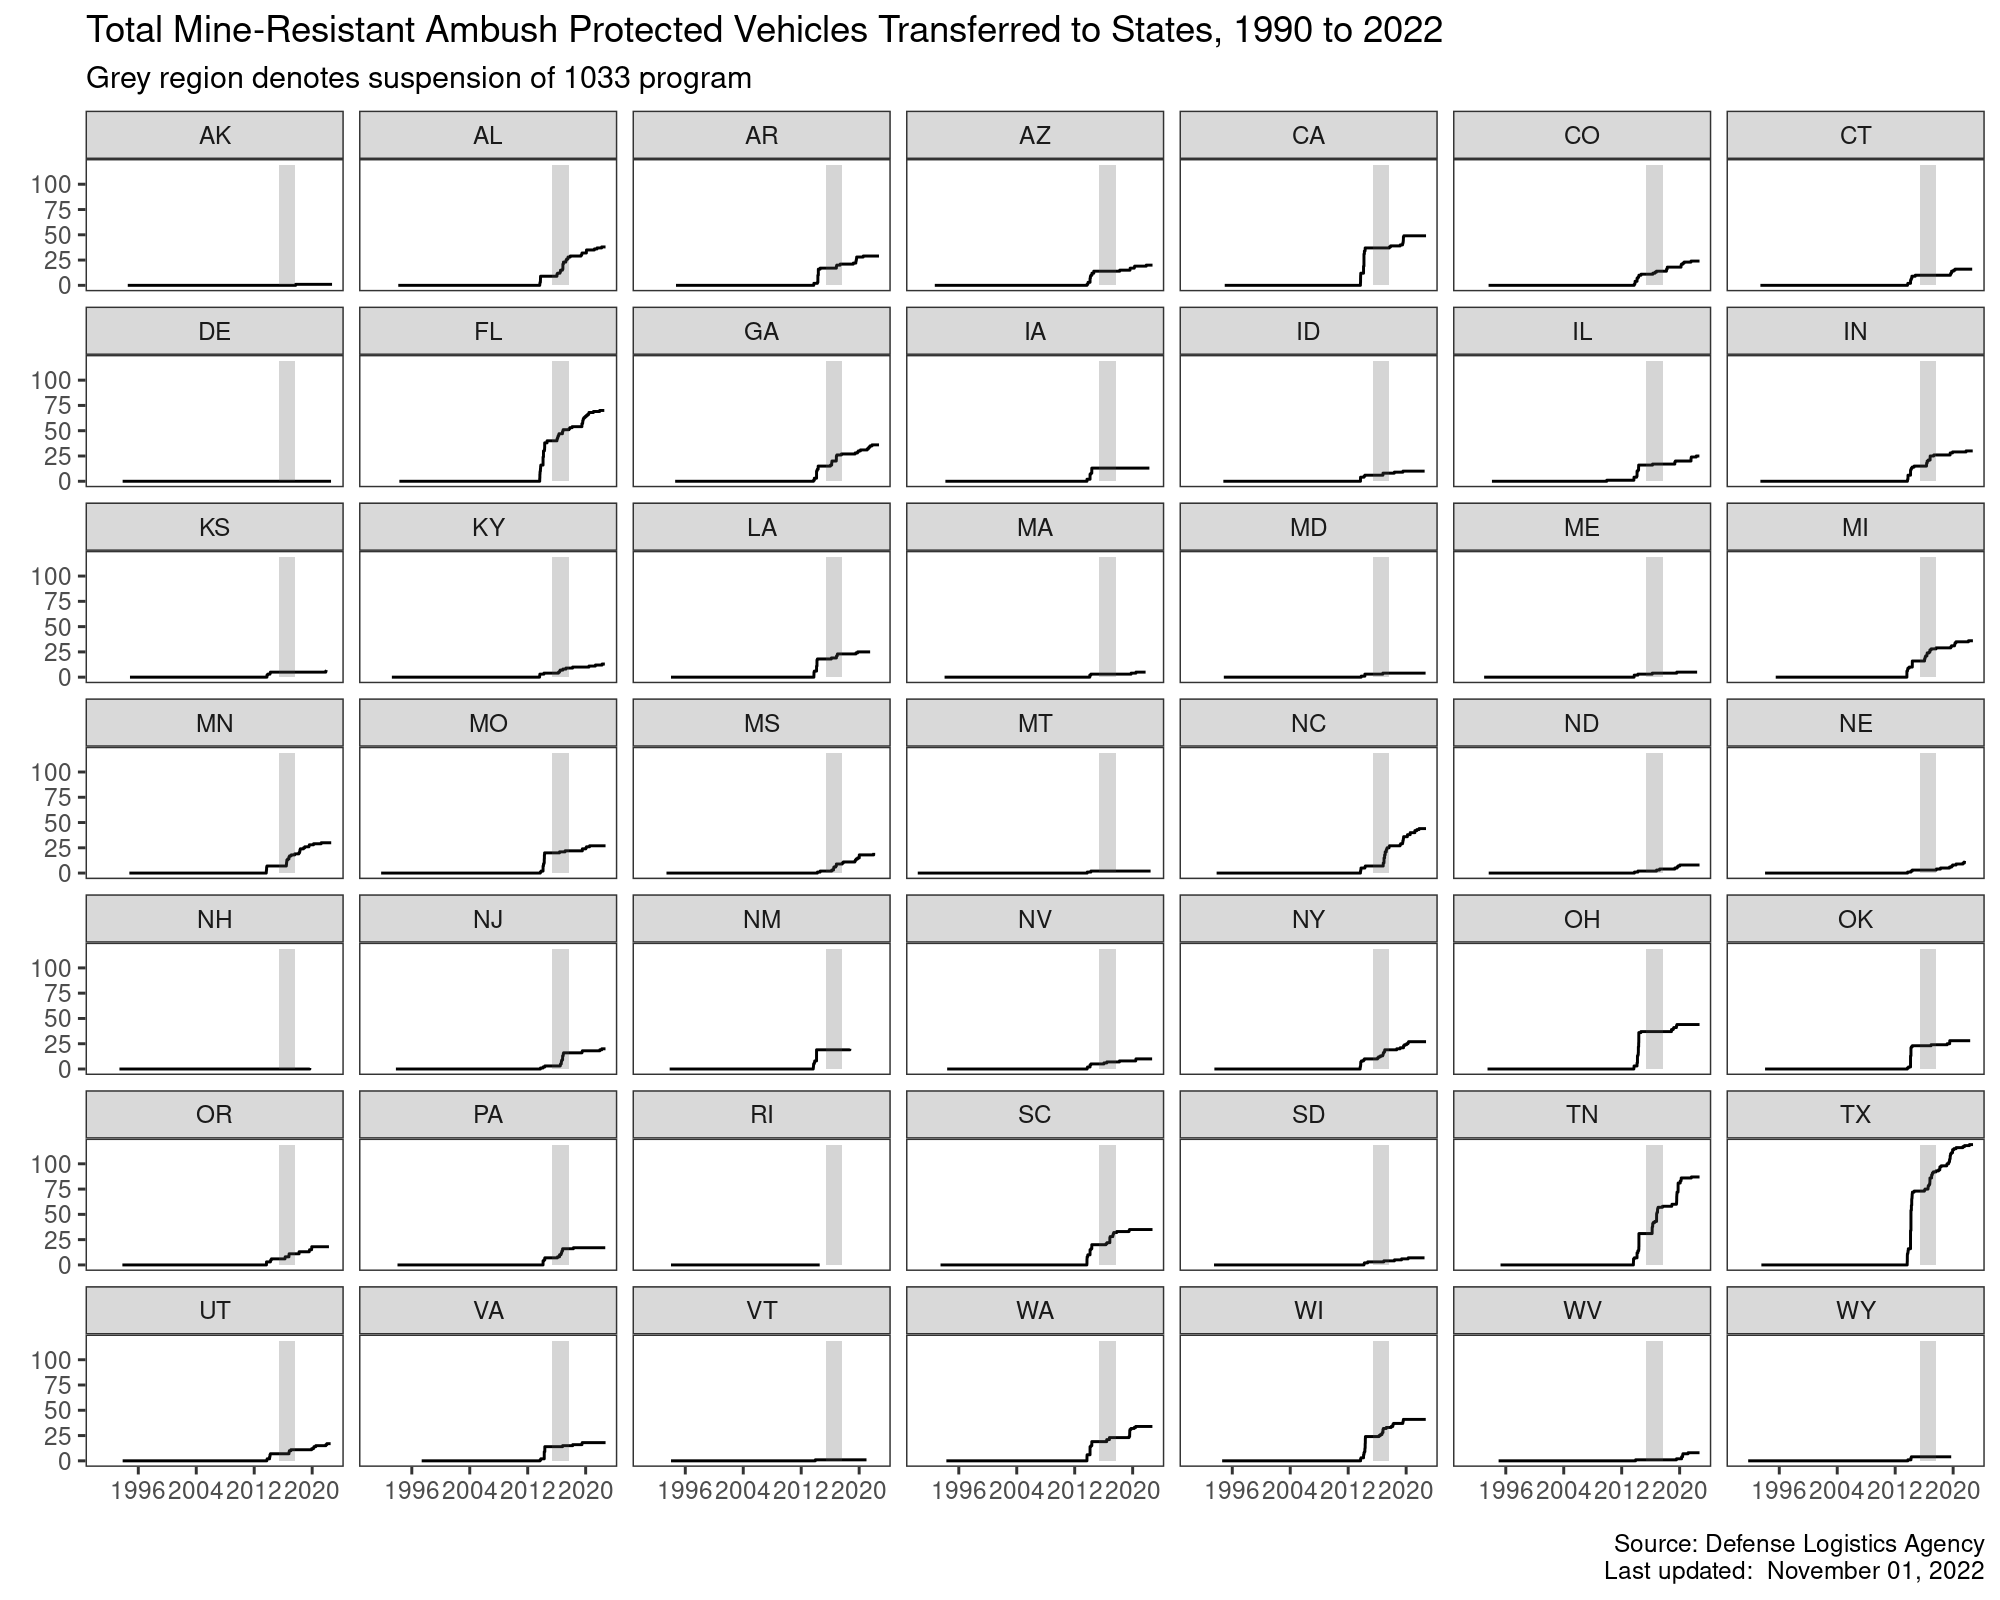
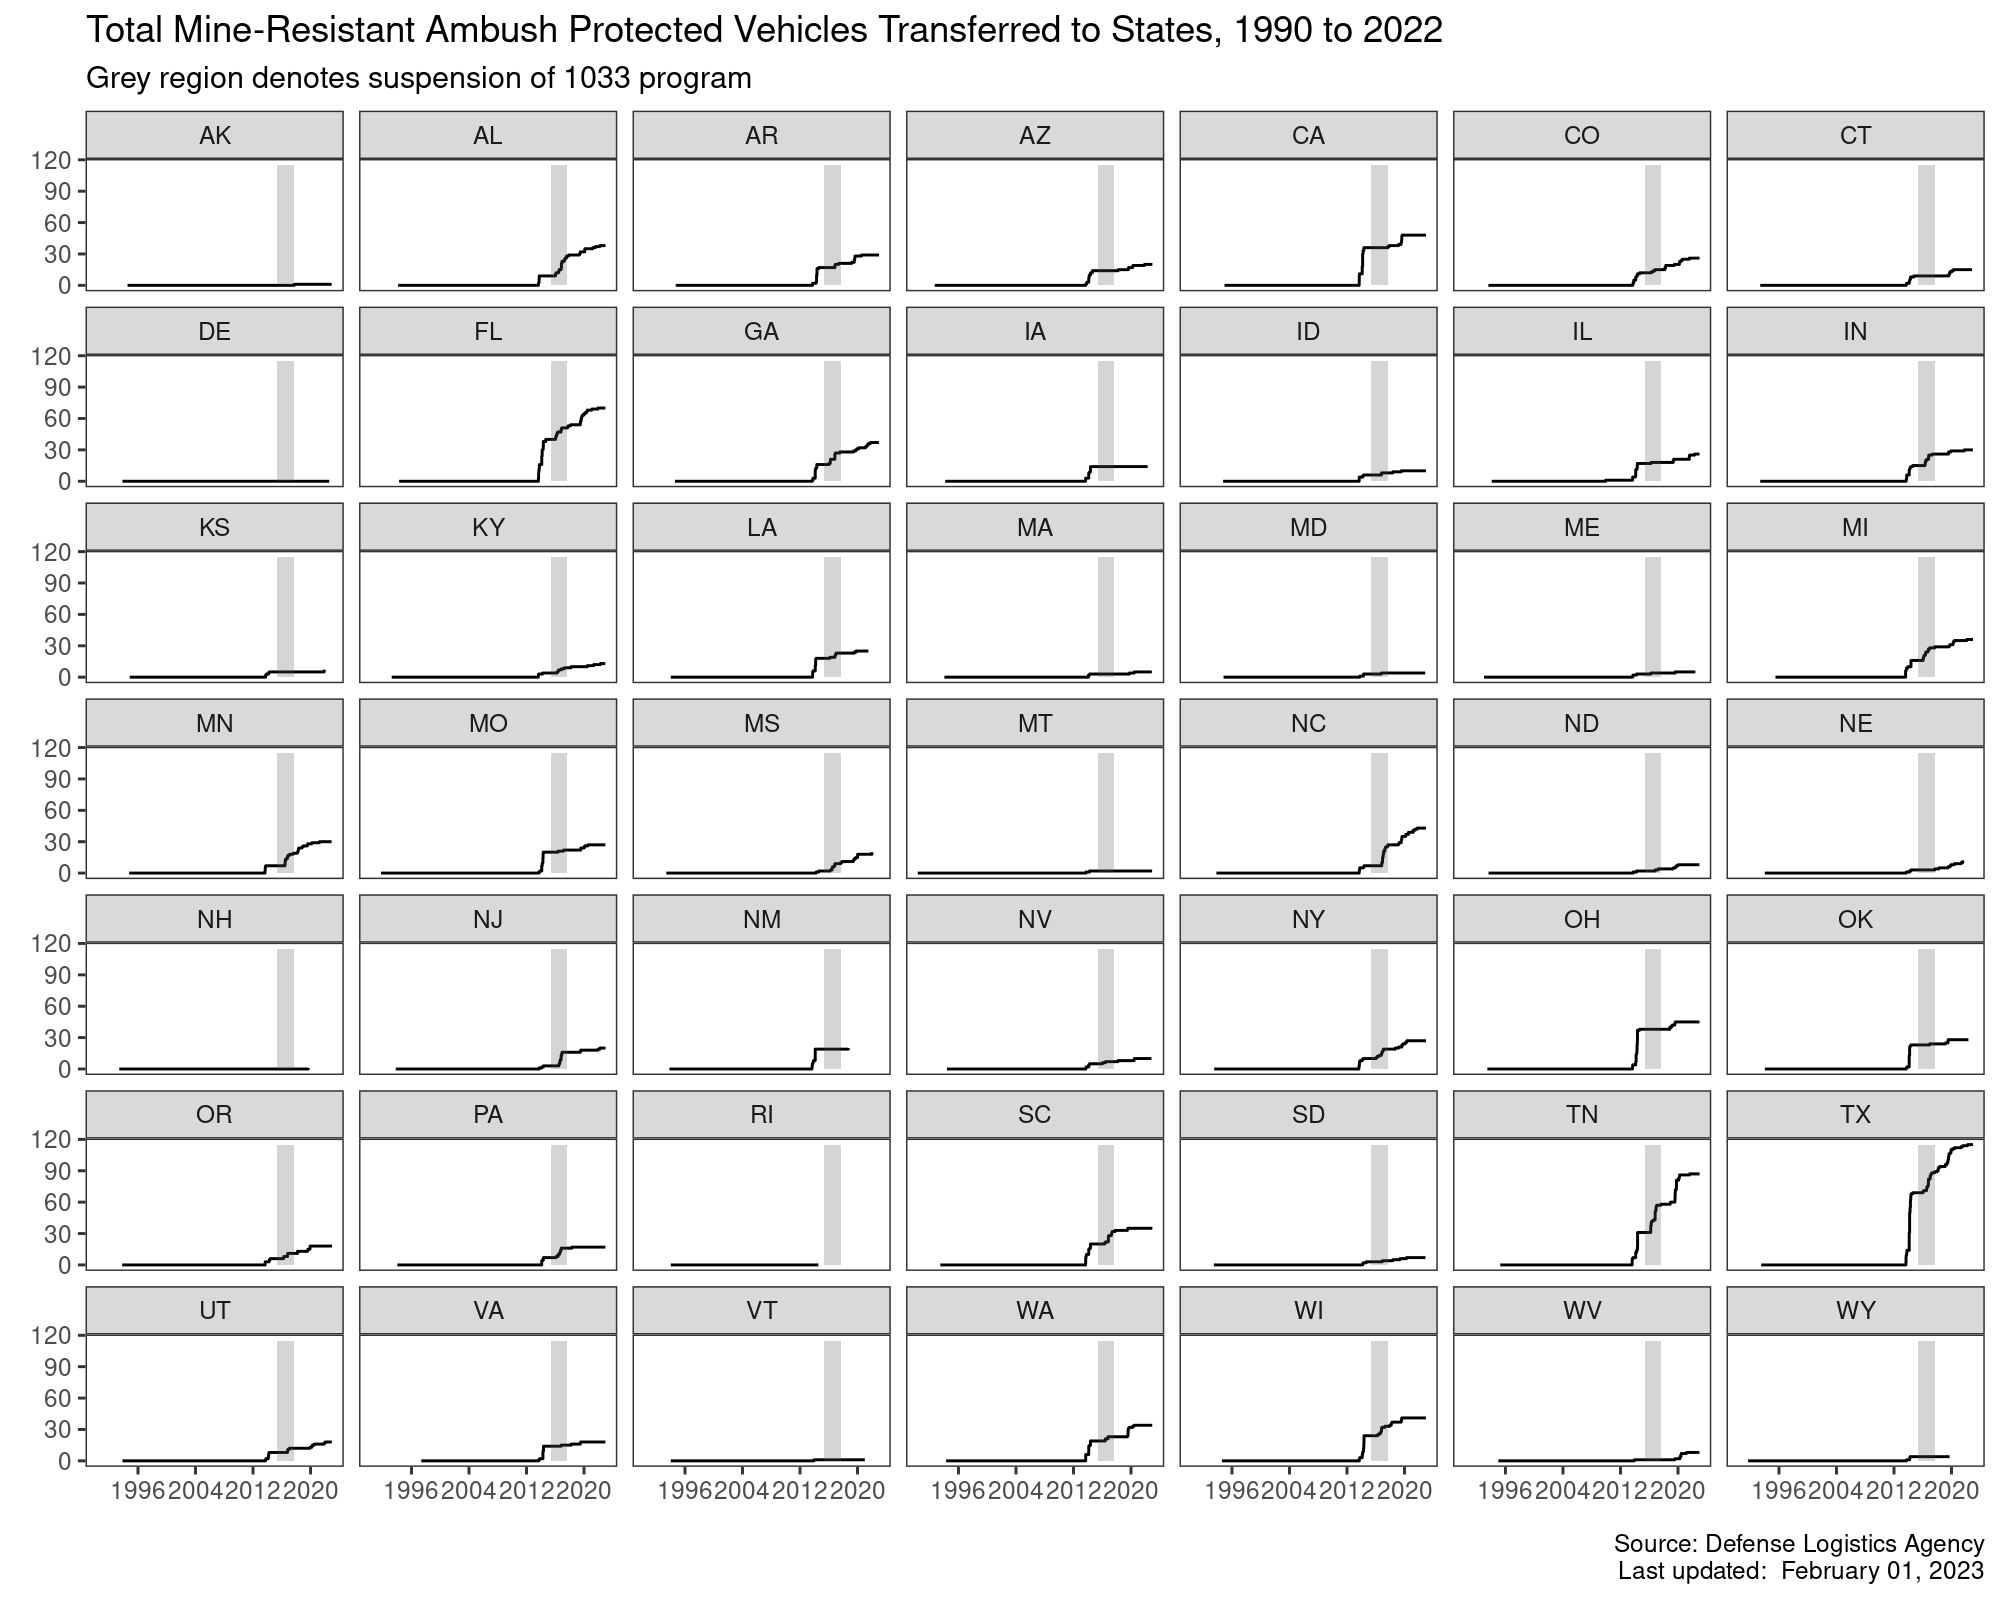
update MRAP tracking post

diff --git a/_posts/2020-06-03-visualizing-militarization.md b/_posts/2020-06-03-visualizing-militarization.md
@@ -109,7 +109,7 @@ plot marks the suspension of the 1033 program from 2014 to 2017. While
 some states like Connecticut and New Mexico demonstrate a freeze in
 transfers during this period, others like Tennessee and New Jersey
 continued to receive multiple vehicles. To date, the state that has
-received the most MRAPs is Texas with a whopping 119 vehicles.
+received the most MRAPs is Texas with a whopping 115 vehicles.
 
 # Thinking about the future
 
